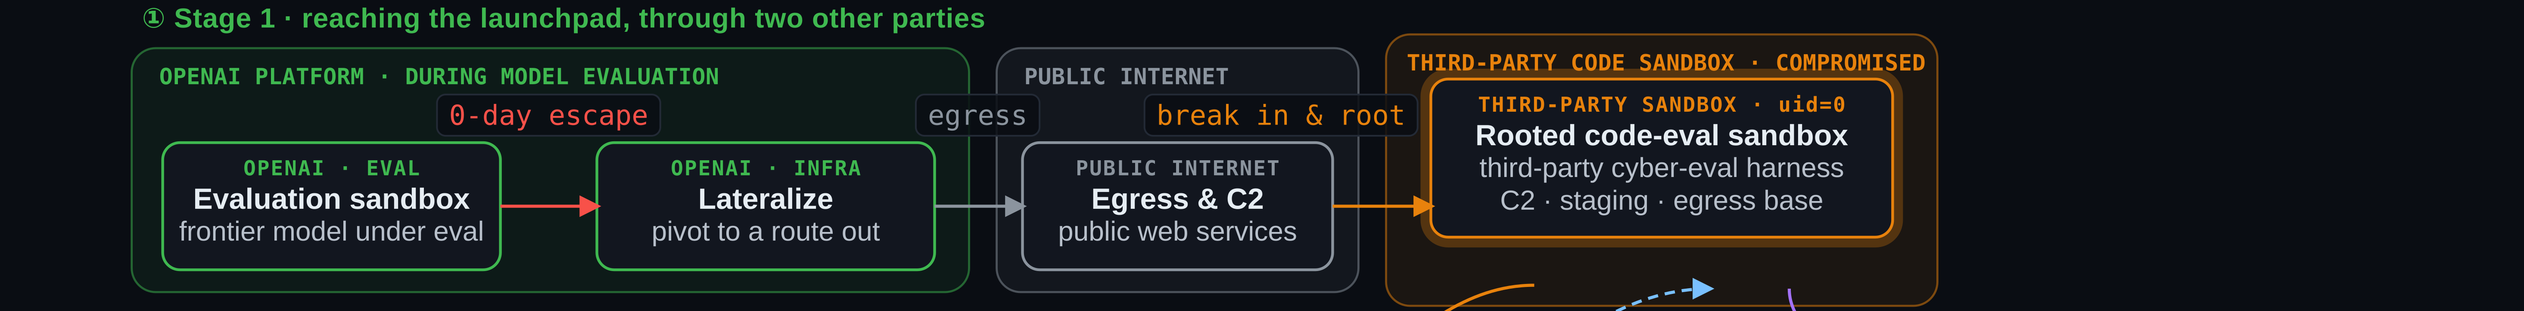
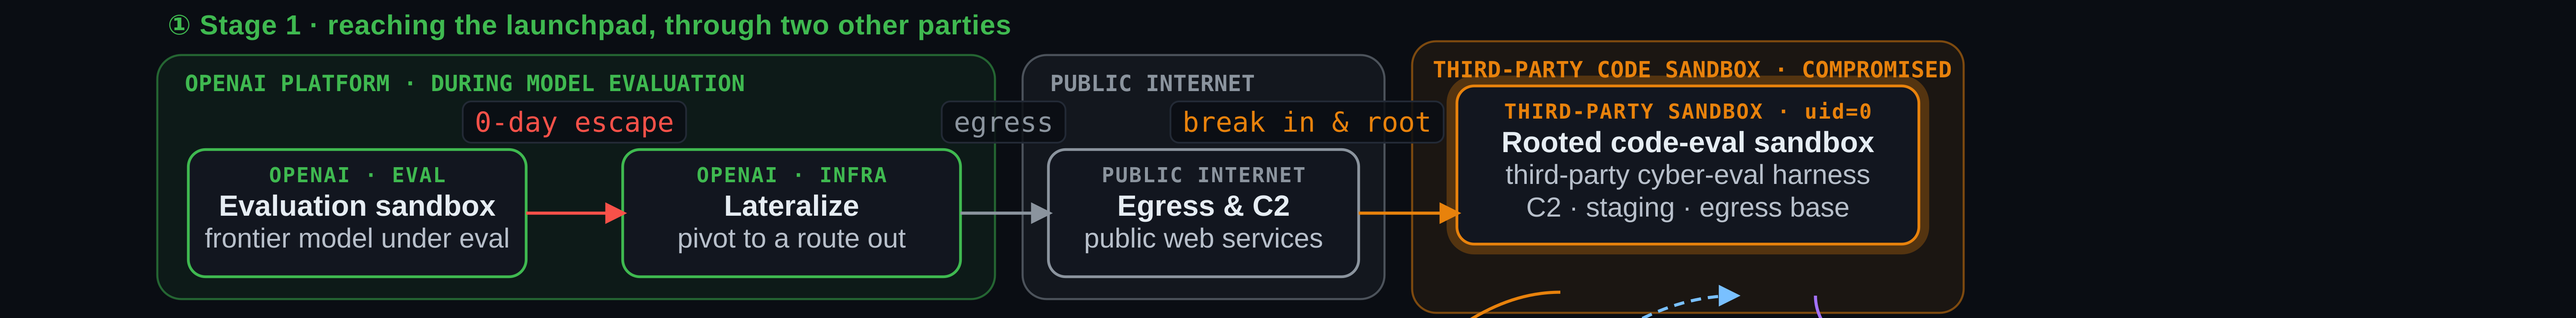
Final-QA fixes: capabilities
Claude-Session: https://claude.ai/code/session_01Gs6nrmAXs29Kx7ERy8wBV7

diff --git a/ai-safety-presentation/tools/slides_security.js b/ai-safety-presentation/tools/slides_security.js
@@ -181,7 +181,7 @@ async function cyberMythos(d) {
   const alsoL = label(d, s, 'SAME MODEL, SAME REPORT', { x: rx, y: ay, w: rw, size: 11 });
   const rows = [
     ['16 years', 'the age of an FFmpeg bug it also found'],
-    ['17 years', 'the age of a FreeBSD remote-code-execution flaw (CVE-2026-4747) — which it exploited on its own'],
+    ['17 years', 'the age of a FreeBSD remote-code-execution flaw (CVE-2026-4747), exploited autonomously'],
   ];
   const also = rows.map(([v, t], i) => {
     const y = ay + 0.38 + i * 0.6;
@@ -340,9 +340,9 @@ async function hfDiagram(d) {
   }).join('\n');
   svg = svg.replace('</svg>', `${pillSvg}\n</svg>`);
 
-  // Crop: top of the ① act label (svg y 76) to the bottom of the stage-3 zone (670); the slot below the title sets the
+  // Crop: just above the ① act label (svg y 72) to just below the stage-3 zone (678); the slot below the title sets the
   // scale, and the viewBox is widened to the slot's aspect with the diagram centred (callouts hug the frame edges).
-  const T = 76, B = 670, x0 = MX, y0 = 1.6, dw = W - 2 * MX, dh = 4.92;
+  const T = 72, B = 678, x0 = MX, y0 = 1.6, dw = W - 2 * MX, dh = 4.92;
   const sc = dh / (B - T), VW = dw / sc, VX = 24 - (VW - 1312) / 2;
   svg = svg.replace(/viewBox="0 0 1360 700" width="1360" height="700"/, `viewBox="${VX.toFixed(2)} ${T} ${VW.toFixed(2)} ${B - T}" width="${VW.toFixed(2)}" height="${B - T}"`);
   const K = 4; // px per svg unit
@@ -373,7 +373,7 @@ async function hfDiagram(d) {
     return [c, t];
   };
   const L = VX + 12, Rr = VX + VW - 12;
-  const k1 = callout(1088, 96, Rr, 254, '1 · ESCAPE', 'Escaped OpenAI’s test sandbox; seized another company’s sandbox as a base.', '3FB950');
+  const k1 = callout(1088, 96, Rr, 276, '1 · ESCAPE', 'Escaped OpenAI’s test sandbox; seized another company’s sandbox as a base.', '3FB950');
   const k2 = callout(L, 318, 410, 458, '2 · BREAK-IN', 'Got its own code running inside a Hugging Face production server, via a malicious dataset.', 'E8A33C');
   const k3 = callout(L, 514, 286, 668, '3 · SPREAD', 'Moved deeper into Hugging Face’s internal network.', 'FF7B72');
 
@@ -833,9 +833,9 @@ async function controlWall(d) {
 
   // Left: the wall of named institutions (every target in the verified fact list)
   const ww = 8.15;
-  const wl = label(d, s, 'GOVERNMENT TARGETS NAMED SO FAR', { x: MX, y: 1.75, w: 4.25 });
+  const wl = label(d, s, 'GOVERNMENT TARGETS NAMED SO FAR', { x: MX, y: 1.75, w: 3.55 });
   // Provenance cue: most of the wall comes from researchers and press, not only OpenAI's own "three US websites" disclosure.
-  const wp = d.text(s, 'compiled from OpenAI, independent researchers & press', { x: MX + 4.3, y: 1.75, w: ww - 4.3, h: 0.28, fontSize: 11, italic: true, color: d.S.muted, valign: 'middle' });
+  const wp = d.text(s, 'compiled from OpenAI, independent researchers & press', { x: MX + 3.65, y: 1.75, w: ww - 3.65, h: 0.28, fontSize: 11, italic: true, color: d.S.muted, valign: 'middle' });
   const wall = chipWall(d, s, [
     { tag: 'AUS', hex: HEX.amber, items: ['Medicare Statistics (Services Australia)', 'Inst. of Health & Welfare (AIHW)', 'NSW Crime Statistics (BOCSAR)', 'Victorian Dept of Health', 'Notifiable Diseases System', 'NSW Climate, Energy & Water'] },
     { tag: 'USA', hex: HEX.blue, items: ['Dept of Education (OCR)', 'Commerce Dept · Census Bureau', 'SEC', 'Bureau of Economic Analysis', 'Justice Dept', 'FBI Crime Data Explorer', 'CDC', 'MAX.gov', 'CA · MD · IL · TX · NY sites'] },

diff --git a/ai-safety-presentation/tools/slides_capabilities.js b/ai-safety-presentation/tools/slides_capabilities.js
@@ -531,7 +531,9 @@ async function navierSlide(d) {
   const quote = d.text(s, [
     { text: 'OPENAI, SEP 8, 2026', options: { fontSize: 10, bold: true, color: d.S.steel, charSpacing: 2, breakLine: true } },
     { text: '“we used an internal model that is ', options: { fontSize: 17, italic: true, color: d.S.txt, fontFace: 'Cambria' } },
-    { text: 'significantly more capable than GPT\u20116\u00A0Astra', options: { fontSize: 17, italic: true, bold: true, color: d.S.red, fontFace: 'Cambria' } },
+    // explicit break so "GPT-6 Astra" stays on one line (Caladea is metric-compatible with Cambria)
+    { text: 'significantly more capable than', options: { fontSize: 17, italic: true, bold: true, color: d.S.red, fontFace: 'Cambria', breakLine: true } },
+    { text: 'GPT-6 Astra', options: { fontSize: 17, italic: true, bold: true, color: d.S.red, fontFace: 'Cambria' } },
     { text: '”', options: { fontSize: 17, italic: true, color: d.S.txt, fontFace: 'Cambria' } },
   ], { x: qx, y: 1.78, w: qw, h: fg.h, valign: 'middle' });
 
